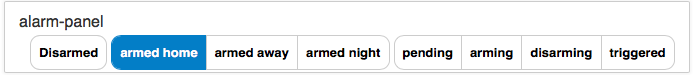
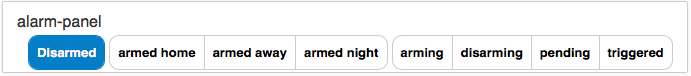
added pendingTime

Changed region(s): [[0.0, 0.0267, 1.0, 0.9867], [0.0, 0.1867, 0.152, 0.4]]

diff --git a/README.md b/README.md
@@ -109,6 +109,8 @@ armTime: The time (in seconds) before the AlarmPanel goes to Armed
   default: 30
 disarmTime: The time (in seconds) before the AlarmPanel goes to Disarmed
   default: 30
+pendingTime: The time (in seconds) after a trigger before the AlarmPanel goed to Triggered
+  default: 30
 ```
 The state and status attributes can be used to interface with the Pimatic Alarm system.
 ```

diff --git a/HISTORY.md b/HISTORY.md
@@ -17,3 +17,6 @@
 	* added DummyAlarmPanel device
 * 20210115, v0.3.1
 	* update state change behaviour
+* 20210115, v0.3.2
+	* update state change behaviour
+	* added pendingTime
